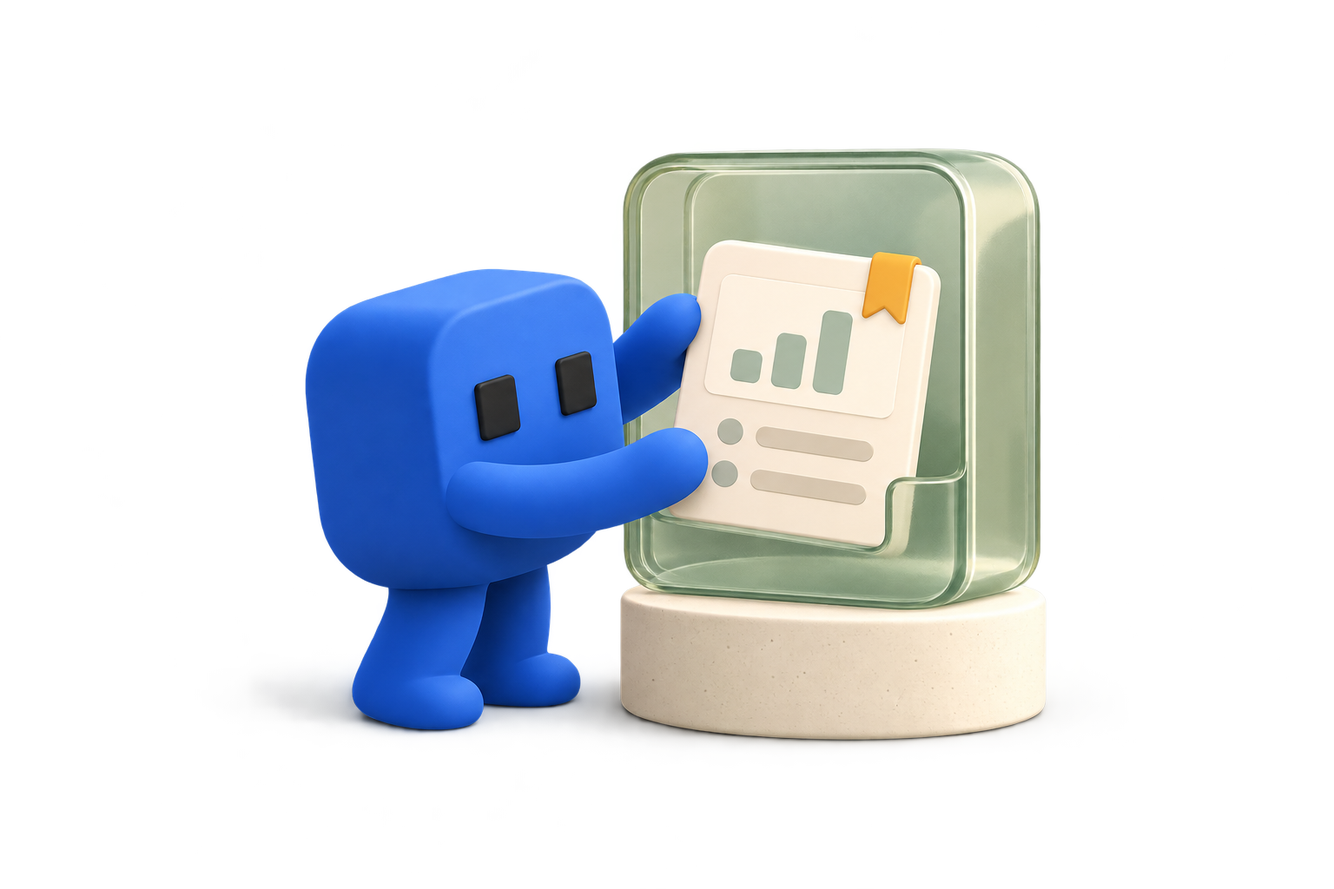
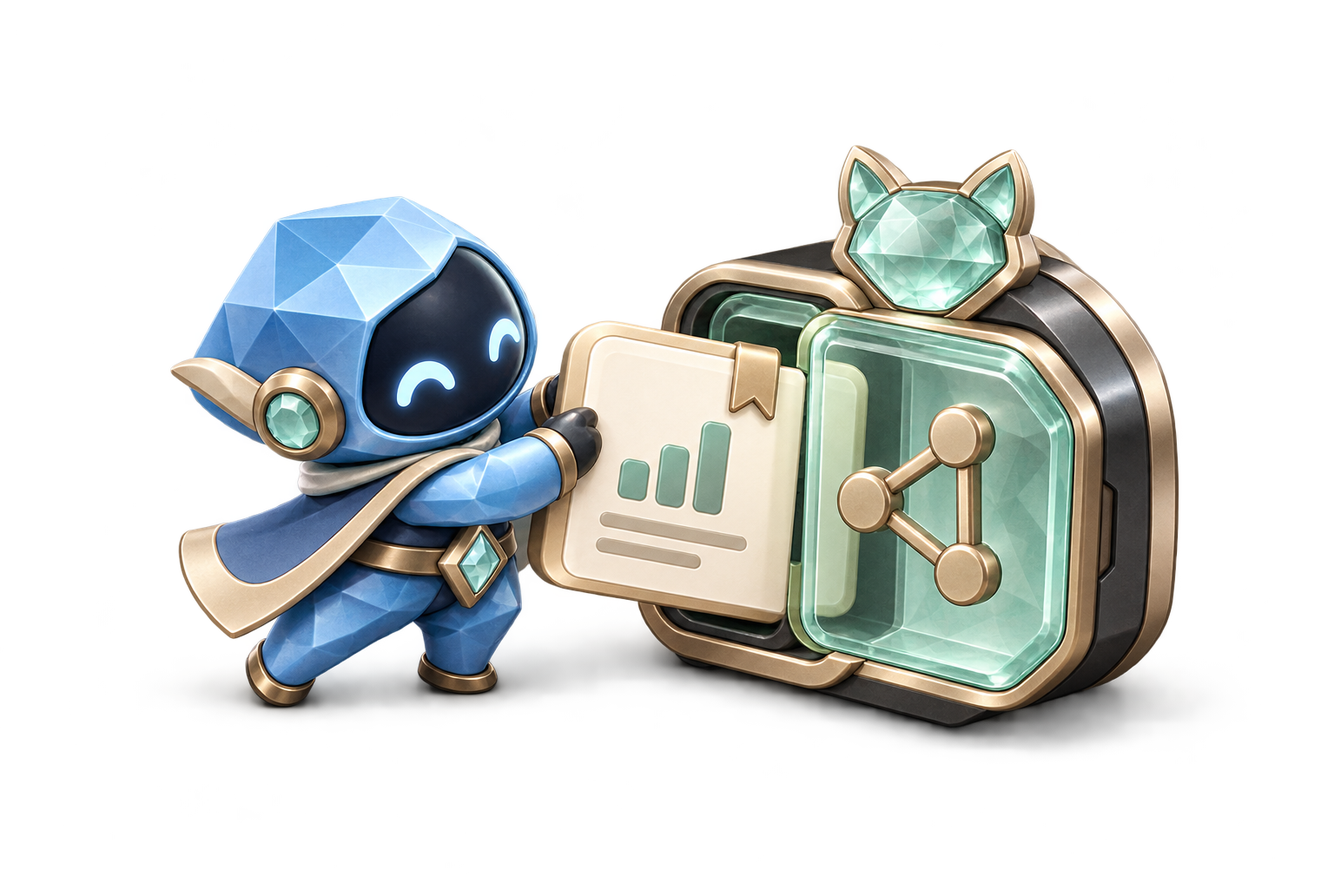
feat(settings): complete brand scenes and group symbols
## Context
- Principle: Preserve original facts and usable capabilities through their owning modules.
- Why: The owning change must complete brand scenes and group symbols.

## Key Deltas
- Settings structure: prior behavior -> complete brand scenes and group symbols; why: close the original consumer path. Key refs: apps/desktop/src/renderer/src/assets/mote-origin/grown-team.png:1

diff --git a/packages/client-ui/src/theme/icon-authored.ts b/packages/client-ui/src/theme/icon-authored.ts
@@ -26,6 +26,58 @@ export const MOTE_COMPANION_PARTS = {
 /** AgentMux drawings on the original 24-unit grid. Keep the theme pen, complete
  * still silhouette and negative space at 12–14px. Only declared parts can move. */
 export const AUTHORED_ICON_DEFINITIONS = {
+  "settings-preferences": {
+    shapes: [["path", {"d": "M3 7h18 M3 17h18"}], ["path", {"d": "M8 4v6 M16 14v6"}]],
+    design: { rest: "Quiet controls with two distinct adjustment points.", motion: { kind: "still", animation: "none", description: "Complete static identity; no inferred activity.", trigger: "The original object or settings group is displayed; this drawing grants no permission and reports no operation result." } }
+  },
+  "settings-agents": {
+    shapes: [["path", {"d": "M5 4h14a2 2 0 0 1 2 2v12a2 2 0 0 1-2 2H5a2 2 0 0 1-2-2V6a2 2 0 0 1 2-2Z"}], ["path", {"d": "m7 9 3 3-3 3 M13 15h4"}]],
+    design: { rest: "Executable command workbench, distinct from a Mote personality.", motion: { kind: "still", animation: "none", description: "Complete static identity; no inferred activity.", trigger: "The original object or settings group is displayed; this drawing grants no permission and reports no operation result." } }
+  },
+  "settings-work": {
+    shapes: [["path", {"d": "M3 4h8v7H3Z M15 4h6v7h-6Z M3 15h6v6H3Z M13 15h8v6h-8Z"}]],
+    design: { rest: "Several coordinated work surfaces rather than one Space window.", motion: { kind: "still", animation: "none", description: "Complete static identity; no inferred activity.", trigger: "The original object or settings group is displayed; this drawing grants no permission and reports no operation result." } }
+  },
+  "settings-know": {
+    shapes: [["path", {"d": "M3 8h6v8H3Z M15 3h6v6h-6Z M15 15h6v6h-6Z"}], ["path", {"d": "M9 12h3 M12 6v12 M12 6h3 M12 18h3"}]],
+    design: { rest: "Related knowledge units join into one organized collection.", motion: { kind: "still", animation: "none", description: "Complete static identity; no inferred activity.", trigger: "The original object or settings group is displayed; this drawing grants no permission and reports no operation result." } }
+  },
+  "settings-browser-use": {
+    shapes: [["path", {"d": "M5 3h14a2 2 0 0 1 2 2v6 M3 18V5a2 2 0 0 1 2-2 M3 8h18 M3 18a2 2 0 0 0 2 2h6"}], ["path", {"d": "m13 11 8 4-4 1-1 5Z"}]],
+    design: { rest: "A browser with a deliberate page interaction cursor.", motion: { kind: "still", animation: "none", description: "Complete static identity; no inferred activity.", trigger: "The original object or settings group is displayed; this drawing grants no permission and reports no operation result." } }
+  },
+  "settings-message-tool": {
+    shapes: [["path", {"d": "M5 4h13a2 2 0 0 1 2 2v5 M3 12V6a2 2 0 0 1 2-2 M7 9h5"}], ["path", {"d": "M4 16h16 M16 12l4 4-4 4"}]],
+    design: { rest: "An authored input followed by intentional outgoing communication.", motion: { kind: "still", animation: "none", description: "Complete static identity; no inferred activity.", trigger: "The original object or settings group is displayed; this drawing grants no permission and reports no operation result." } }
+  },
+  "settings-remote": {
+    shapes: [["path", {"d": "M2 4h8v8H2Z M14 12h8v8h-8Z"}], ["path", {"d": "M6 12v5h8 M10 8h8v4"}]],
+    design: { rest: "Two machines connected across their original environments.", motion: { kind: "still", animation: "none", description: "Complete static identity; no inferred activity.", trigger: "The original object or settings group is displayed; this drawing grants no permission and reports no operation result." } }
+  },
+  "settings-channels": {
+    shapes: [["path", {"d": "M3 4h7v6H6l-3 2Z M14 14h7v6h-4l-3 2Z"}], ["path", {"d": "M10 7h7v7 M3 17h6 M6 14v6"}]],
+    design: { rest: "Distinct conversation channels connected through one route.", motion: { kind: "still", animation: "none", description: "Complete static identity; no inferred activity.", trigger: "The original object or settings group is displayed; this drawing grants no permission and reports no operation result." } }
+  },
+  "settings-mods": {
+    shapes: [["path", {"d": "M3 3h7v7H3Z M14 3h7v7h-7Z M3 14h7v7H3Z"}], ["path", {"d": "M17.5 13v9 M13 17.5h9"}]],
+    design: { rest: "A modular workspace with a deliberate extension point.", motion: { kind: "still", animation: "none", description: "Complete static identity; no inferred activity.", trigger: "The original object or settings group is displayed; this drawing grants no permission and reports no operation result." } }
+  },
+  "promotion-rise": {
+    shapes: [["path", {"d": "M3 20h5v-6h6V8h6V3"}], ["path", {"d": "M15 3h5v5"}]],
+    design: { rest: "Accumulated work grows through connected steps; a distinct promotion destination.", motion: { kind: "still", animation: "none", description: "Complete static identity; no inferred activity.", trigger: "The original object or settings group is displayed; this drawing grants no permission and reports no operation result." } }
+  },
+  "agent-message-relay": {
+    shapes: [["path", {"d": "M3 4h9v7H6l-3 2Z M12 13h9v7h-6l-3 2Z"}], ["path", {"d": "M15 5h5v5 M9 19H4v-5"}]],
+    design: { rest: "Two original message endpoints exchange content without implying delivery success.", motion: { kind: "still", animation: "none", description: "Complete static identity; no inferred activity.", trigger: "The original object or settings group is displayed; this drawing grants no permission and reports no operation result." } }
+  },
+  "automation-route": {
+    shapes: [["path", {"d": "M6 4h12v5 M18 15v5H6v-5"}], ["path", {"d": "M3 9h6v6H3Z M15 9h6v6h-6Z"}]],
+    design: { rest: "A repeatable route connects explicit work stages without a live animation.", motion: { kind: "still", animation: "none", description: "Complete static identity; no inferred activity.", trigger: "The original object or settings group is displayed; this drawing grants no permission and reports no operation result." } }
+  },
+  "library-tools": {
+    shapes: [["path", {"d": "M3 8h18v12H3Z M8 8V5h8v3 M3 13h18"}], ["path", {"d": "M10 12v3h4v-3"}]],
+    design: { rest: "A carried toolkit with a distinct handle and clasp; separate from the Mods extension group.", motion: { kind: "still", animation: "none", description: "Complete static identity; no inferred activity.", trigger: "The original object or settings group is displayed; this drawing grants no permission and reports no operation result." } }
+  },
   "space-workchamber": {
     shapes: [["rect", { "x": "2.5", "y": "4", "width": "19", "height": "16", "rx": "2" }], ["path", { "d": "M9.5 4v16", "data-semantic-icon-part": "selection-pane" }]],
     design: {
@@ -601,7 +653,7 @@ export const AUTHORED_ICON_DEFINITIONS = {
     }
   },
   "skill-guide": {
-    shapes: [["path",{"d":"M5 3h14v18H5Z M8 7h8 M8 11h8 M8 16l2 2 5-4"}]],
+    shapes: [["path",{"d":"M5 3h10l4 4v14H5Z M15 3v5h4 M8 7h8 M8 11h8 M8 16l2 2 5-4"}]],
     design: {
       rest: "指南页、行文与检查记号，表达指导材料",
       motion: { kind: "still", animation: "none", description: "当前消费表达对象/记录或入口，未提供持续活动事实；实际面板/选中/布局变化已表达动作结果，保持图标静止减少重复反馈。", trigger: "沿现有对象身份、分类、导航、记录或工具入口；hover/focus沿宿主短反馈" }
@@ -650,11 +702,8 @@ export const AUTHORED_ICON_DEFINITIONS = {
     }
   },
   "topic-card": {
-    shapes: [["path",{"d":"M4 4h16v12H9l-5 5Z M8 8h8 M8 12h5"}]],
-    design: {
-      rest: "对话卡片与正文线，有对象轮廓",
-      motion: { kind: "still", animation: "none", description: "当前消费表达对象/记录或入口，未提供持续活动事实；实际面板/选中/布局变化已表达动作结果，保持图标静止减少重复反馈。", trigger: "沿现有对象身份、分类、导航、记录或工具入口；hover/focus沿宿主短反馈" }
-    }
+    shapes: [["path", {"d": "M5 3h14a2 2 0 0 1 2 2v14a2 2 0 0 1-2 2H5a2 2 0 0 1-2-2V5a2 2 0 0 1 2-2Z"}], ["path", {"d": "M7 7h4 M7 17h10"}], ["path", {"d": "M14.5 11a2.5 2.5 0 1 1-5 0 2.5 2.5 0 0 1 5 0Z"}]],
+    design: { rest: "An indexed topic core and its accumulated notes.", motion: { kind: "still", animation: "none", description: "Complete static identity; no inferred activity.", trigger: "The original object or settings group is displayed; this drawing grants no permission and reports no operation result." } }
   },
   "tab-item": {
     shapes: [["path",{"d":"M3 8h18v13H3Z M4 8V3h8v5 M15 5h5v3"}]],
@@ -699,11 +748,8 @@ export const AUTHORED_ICON_DEFINITIONS = {
     }
   },
   "prompt-sheet": {
-    shapes: [["path",{"d":"M5 3h9l5 5v13H5Z M14 3v5h5"}],["path",{"d":"M8 12h4 M15 11v7 M8 17h3"}]],
-    design: {
-      rest: "折角纸页与局部输入竖线",
-      motion: { kind: "still", animation: "none", description: "当前消费表达对象/记录或入口，未提供持续活动事实；实际面板/选中/布局变化已表达动作结果，保持图标静止减少重复反馈。", trigger: "沿现有对象身份、分类、导航、记录或工具入口；hover/focus沿宿主短反馈" }
-    }
+    shapes: [["path", {"d": "M5 3h10l4 4v14H5Z M15 3v5h4"}], ["path", {"d": "M8 12h8 M8 16h5"}]],
+    design: { rest: "A reusable instruction page with authored lines, distinct from an executing terminal.", motion: { kind: "still", animation: "none", description: "Complete static identity; no inferred activity.", trigger: "The original object or settings group is displayed; this drawing grants no permission and reports no operation result." } }
   },
   "session-resume": {
     shapes: [["path",{"d":"M3 8V6a2 2 0 0 1 2-2h14a2 2 0 0 1 2 2v12a2 2 0 0 1-2 2H5a2 2 0 0 1-2-2v-2"}],["path",{"d":"M2 12h12 M10 8l4 4-4 4","data-semantic-icon-part":"feedback-forward","pathLength":"1"}]],
@@ -818,7 +864,7 @@ export const AUTHORED_ICON_DEFINITIONS = {
     }
   },
   "suggestion-snooze": {
-    shapes: [["path",{"d":"M5 3h14v18H5Z M8 9h8l-8 7h8"}]],
+    shapes: [["path",{"d":"M5 3h10l4 4v14H5Z M15 3v5h4 M8 9h8l-8 7h8"}]],
     design: {
       rest: "纸页内Z式休眠符号；非停止Agent或静音通知",
       motion: { kind: "still", animation: "none", description: "图形经实际CSS mask投影，无独立内部部位；真实内容/折叠/缩放变化已经给出结果，静止图标更清楚。", trigger: "原Monaco/Excalidraw控件值与动作；不新增内部动画renderer" }

diff --git a/apps/desktop/src/renderer/src/components/settings/settings-catalog.ts b/apps/desktop/src/renderer/src/components/settings/settings-catalog.ts
@@ -1,5 +1,5 @@
 import type { ComponentType } from 'react'
-import type { IconAnimation } from '@agentmux/client-ui/icons'
+import type { IconAnimation, SemanticIconId } from '@agentmux/client-ui/icons'
 import type { AppConfig } from '../../../../shared/contracts'
 import type { SettingsNavigationRequest } from '../SettingsNavigation'
 import type { SettingsPageId } from './settings-modules'
@@ -9,17 +9,17 @@ export type ChannelEntry = { section: SettingsPageId; adapterId: string; title: 
 export type ChannelPresentation = { section: SettingsPageId; title: string; icon: ComponentType<{ size?: number | undefined }> }
 
 export const SETTINGS_GROUPS = [
-  { id: 'preferences', title: 'Preferences', description: 'Your profile and everyday defaults.' },
-  { id: 'agents', title: 'Agents', description: 'Agent CLIs and session recovery.' },
-  { id: 'mote', title: 'Mote', description: 'Your collaborators and how they grow.' },
-  { id: 'work', title: 'Work', description: 'Organize work, focus attention and pursue goals.' },
-  { id: 'know', title: 'Know', description: 'Develop topics, explore sources and keep notes.' },
-  { id: 'browser-use', title: 'Browser use', description: 'Browsing and Agent interaction.' },
-  { id: 'message-tool', title: 'Message Tool', description: 'Input, collaboration and reusable instructions.' },
-  { id: 'remote', title: 'Remote', description: 'Hosts, remote execution, and device access.' },
-  { id: 'conversation-channels', title: 'Conversation Channels', description: 'Conversations in the app and beyond.' },
-  { id: 'toolkit', title: 'Mods', description: 'Tools that extend your workspace.' }
-] as const
+  { id: 'preferences', icon: 'object.settings-preferences', title: 'Preferences', description: 'Your profile and everyday defaults.' },
+  { id: 'agents', icon: 'object.settings-agents', title: 'Agents', description: 'Agent CLIs and session recovery.' },
+  { id: 'mote', icon: 'object.mote', title: 'Mote', description: 'Your collaborators and how they grow.' },
+  { id: 'work', icon: 'object.settings-work', title: 'Work', description: 'Organize work, focus attention and pursue goals.' },
+  { id: 'know', icon: 'object.settings-know', title: 'Know', description: 'Develop topics, explore sources and keep notes.' },
+  { id: 'browser-use', icon: 'object.settings-browser-use', title: 'Browser use', description: 'Browsing and Agent interaction.' },
+  { id: 'message-tool', icon: 'object.settings-message-tool', title: 'Message Tool', description: 'Input, collaboration and reusable instructions.' },
+  { id: 'remote', icon: 'object.settings-remote', title: 'Remote', description: 'Hosts, remote execution, and device access.' },
+  { id: 'conversation-channels', icon: 'object.settings-channels', title: 'Conversation Channels', description: 'Conversations in the app and beyond.' },
+  { id: 'toolkit', icon: 'object.settings-mods', title: 'Mods', description: 'Tools that extend your workspace.' }
+] as const satisfies readonly { id: string; icon: SemanticIconId; title: string; description: string }[]
 
 export type SettingsPaneProps = {
   config: AppConfig

diff --git a/packages/client-ui/src/theme/icon-catalog.ts b/packages/client-ui/src/theme/icon-catalog.ts
@@ -3,12 +3,23 @@ export { ICON_GLYPHS, ICON_GLYPH_IDS, AUTHORED_ICON_GLYPH_IDS, type IconGlyphId 
 
 /** IDs describe product meaning. Library glyph IDs are only the default drawing choice. */
 export const SEMANTIC_ICON_CATALOG = {
+  'object.settings-preferences': { label: 'Preferences group', glyph: 'settings-preferences' },
+  'object.settings-agents': { label: 'Agents group', glyph: 'settings-agents' },
+  'object.settings-work': { label: 'Work group', glyph: 'settings-work' },
+  'object.settings-know': { label: 'Know group', glyph: 'settings-know' },
+  'object.settings-browser-use': { label: 'Browser use group', glyph: 'settings-browser-use' },
+  'object.settings-message-tool': { label: 'Message Tool group', glyph: 'settings-message-tool' },
+  'object.settings-remote': { label: 'Remote group', glyph: 'settings-remote' },
+  'object.settings-channels': { label: 'Conversation Channels group', glyph: 'settings-channels' },
+  'object.settings-mods': { label: 'Mods group', glyph: 'settings-mods' },
+  'object.promotion': { label: 'Topic promotion', glyph: 'promotion-rise' },
+  'object.tool-library': { label: 'Toolkit Library', glyph: 'library-tools' },
   'action.fork-conversation': { label: 'Fork current conversation', glyph: 'git-fork' },
   'object.relationships': { label: 'Note relationships', glyph: 'topology-nodes' },
   'object.subagent': { label: 'Native Subagent report', glyph: 'subagent-report' },
   'object.collaboration': { label: 'Recorded Agent collaboration', glyph: 'message-history' },
   'object.agent-creation': { label: 'Agent creation relation', glyph: 'plus' },
-  'object.automation': { label: 'Automation', glyph: 'zap' },
+  'object.automation': { label: 'Automation', glyph: 'automation-route' },
   'action.move-to-draft': { label: 'Move queued message to draft', glyph: 'draft-return' },
   'navigation.space': { label: 'Space workbench', glyph: 'space-workchamber' },
   'navigation.focus': { label: 'Focus workface', glyph: 'focus-workframe' },
@@ -18,7 +29,7 @@ export const SEMANTIC_ICON_CATALOG = {
   'object.session-recovery': { label: 'Session recovery', glyph: 'session-resume' },
   'object.capsule': { label: 'Capsule', glyph: 'capsule-page' },
   'object.user-input': { label: 'User Input', glyph: 'user-input-field' },
-  'object.agent-messaging': { label: 'Agent messaging', glyph: 'git-compare-arrows' },
+  'object.agent-messaging': { label: 'Agent messaging', glyph: 'agent-message-relay' },
   'object.amux-protocols': { label: 'amux Protocols', glyph: 'protocol-frame' },
   'object.remote-execution': { label: 'Remote execution', glyph: 'execution-split' },
   'conversation.history-window': { label: 'Conversation history window', glyph: 'clock-3' },

diff --git a/apps/desktop/src/renderer/src/components/SettingsPanel.tsx b/apps/desktop/src/renderer/src/components/SettingsPanel.tsx
@@ -1,6 +1,6 @@
 import { TextInput } from '@agentmux/client-ui/input'
 import * as DropdownMenu from './HoverDropdownMenu'
-import { semanticIconComponent } from '@agentmux/client-ui/icons'
+import { SemanticIcon, semanticIconComponent } from '@agentmux/client-ui/icons'
 import { Fragment, memo, useEffect, useLayoutEffect, useMemo, useRef, useState } from 'react'
 import { BrandIcon } from './BrandIcon'
 import type { SettingsNavigationRequest } from './SettingsNavigation'
@@ -14,6 +14,7 @@ import { SettingsSidebarNavigation } from './settings/SettingsSidebarNavigation'
 import { SETTINGS_GROUPS, type SettingsModule } from './settings/settings-catalog'
 import { settingsCatalog, settingsModules, visibleSettingsSections, settingsNavGroups, type SettingsPageId, type SettingsSectionId } from './settings/settings-modules'
 import '../styles/settings-search.css'
+import '../styles/settings-groups.css'
 
 const ThemeActionSearchIcon = semanticIconComponent('action.search')
 const ThemeActionClearIcon = semanticIconComponent('action.clear')
@@ -196,7 +197,7 @@ function SettingsPanelView({ onClose, visible = true, initialSection = 'overview
               <DropdownMenu.RadioGroup value={showResults ? '' : active} onValueChange={(value) => chooseSection(value as SettingsPageId)}>
                 {!query.trim() ? <DropdownMenu.RadioItem value="overview" className="settings-section-menu__item" data-settings-target="overview"><span><DropdownMenu.ItemIndicator><ThemeStatusSelectedIcon size={13} /></DropdownMenu.ItemIndicator></span><OverviewIcon size={15} aria-hidden="true" />Overview</DropdownMenu.RadioItem> : null}
                 {navGroups.map((group) => <Fragment key={group.id}>
-                  <DropdownMenu.Label className="settings-section-menu__label">{group.title}</DropdownMenu.Label>
+                  <DropdownMenu.Label className="settings-section-menu__label"><span className="settings-group-heading"><SemanticIcon name={group.icon} size={12} aria-hidden="true" />{group.title}</span></DropdownMenu.Label>
                   {group.items.map((item) => {
                     const Icon = item.icon
                     return <DropdownMenu.RadioItem key={item.id} value={item.id} className="settings-section-menu__item" data-settings-target={item.id}>

diff --git a/apps/desktop/src/renderer/src/components/settings/MoteOriginStory.tsx b/apps/desktop/src/renderer/src/components/settings/MoteOriginStory.tsx
@@ -11,7 +11,7 @@ const chapters = [
     description: '已经知道需要什么？从 PMO 这样的专家画像建立 Mote，让其中的 Agent 分工，把事情一起做好。',
     continuity: '团队有共同的名字与风格，成员各自承担工作。',
     image: roleTeam,
-    alt: '一个带有 Mote 人格标识的工作室，内部蓝色、琥珀色和紫色的三位 Agent 分别使用电脑、整理任务和记录笔记。',
+    alt: '蓝色、琥珀色和紫色的三位 Agent 把图表、书写和观察三种专长拼入共同的团队画像。',
   },
   {
     label: '从 Topic 开始', path: '从事情成长 · 开始', organization: 'Topic · 一个工作方向',
@@ -19,15 +19,15 @@ const chapters = [
     description: '方向还新，就先建一个 Topic。让其中的 Agent 从具体任务开始，在一次次合作中积累经验、形成分工。',
     continuity: '先有一起做的事，再发现值得长期发展的能力。',
     image: topicWork,
-    alt: 'Topic 的开放工作区里，蓝色、琥珀色和紫色的三位 Agent 处理日常任务，留下图表、任务卡和笔记。',
+    alt: '三位 Agent 围绕同一个 Topic 工作台，汇集资料、图表和笔记，形成共同的上下文。',
   },
   {
-    label: '晋升为 Mote', path: '从事情成长 · 晋升为伙伴', organization: 'Mote · 长期伙伴',
+    label: 'Promotion', path: '从事情成长 · Promotion', organization: 'Mote · 长期伙伴',
     title: '让重要的方向，成为长期伙伴。',
     description: '当一个 Topic 足够重要、被频繁依赖，就让它晋升为 Mote，建立团队人格。原来的 Agent 与积累一起延续。',
     continuity: '成员继续成长：深耕专业，也可以逐渐承担协调。',
     image: grownTeam,
-    alt: '上一幕相同的三位 Agent、图表、任务卡和笔记仍在，工作区建立了 Mote 的名字与人格标识，成员继续专业工作与协调。',
+    alt: '三位原 Agent 带着自己的专长与资料，站在连续的团队平台上；积累的 Topic 核心展开为 Mote 人格。',
   },
 ] as const
 

diff --git a/apps/desktop/src/renderer/src/components/settings/settings-concept-summary.css b/apps/desktop/src/renderer/src/components/settings/settings-concept-summary.css
@@ -1,0 +1,18 @@
+.settings-concept-summary { min-width: 0; margin-bottom: var(--sp-4); padding: var(--sp-4) 0; border-bottom: 1px solid var(--line-soft); }
+.settings-concept-summary__heading { display: flex; align-items: center; gap: var(--sp-3); }
+.settings-concept-summary__symbol { display: grid; place-items: center; flex: none; width: 40px; height: 40px; border: 1px solid color-mix(in srgb, var(--green) 22%, var(--line-soft)); border-radius: 12px; color: var(--green); background: color-mix(in srgb, var(--green) 5%, var(--surface-1)); }
+.settings-concept-summary__heading > div:not(.settings-concept-summary__action) { min-width: 0; flex: 1; }
+.settings-concept-summary h3 { margin: 0 0 4px; font-size: var(--fs-body); line-height: 1.4; font-weight: 600; color: var(--text); }
+.settings-concept-summary p { margin: 0; max-width: 66ch; color: var(--text-2); font-size: var(--fs-meta); line-height: 1.55; }
+.settings-concept-summary__action { flex: none; }
+.settings-concept-summary__steps { list-style: none; display: grid; grid-auto-columns: minmax(0, 1fr); grid-auto-flow: column; gap: var(--sp-4); margin: var(--sp-4) 0 0 52px; padding: 0; }
+.settings-concept-summary__steps li { display: flex; gap: var(--sp-2); min-width: 0; }
+.settings-concept-summary__steps li > span { display: grid; place-items: center; flex: none; width: 19px; height: 19px; margin-top: 1px; border: 1px solid var(--line-soft); border-radius: 50%; color: var(--text-3); font-size: var(--fs-micro); }
+.settings-concept-summary__steps strong, .settings-concept-summary__steps small { display: block; font-size: var(--fs-meta); line-height: 1.5; }
+.settings-concept-summary__steps strong { color: var(--text-2); font-weight: 500; }
+.settings-concept-summary__steps small { color: var(--text-3); }
+@container (max-width: 520px) {
+  .settings-concept-summary__heading { flex-wrap: wrap; }
+  .settings-concept-summary__action { margin-left: 52px; }
+  .settings-concept-summary__steps { grid-auto-flow: row; grid-auto-columns: auto; gap: var(--sp-3); }
+}

diff --git a/apps/desktop/src/renderer/src/components/settings/SettingsSidebarNavigation.tsx b/apps/desktop/src/renderer/src/components/settings/SettingsSidebarNavigation.tsx
@@ -1,4 +1,4 @@
-import { semanticIconComponent } from '@agentmux/client-ui/icons'
+import { SemanticIcon, semanticIconComponent } from '@agentmux/client-ui/icons'
 import { useLayoutEffect, useRef, useState } from 'react'
 import { LiquidSelectionSurface } from '../LiquidSelectionSurface'
 import type { SettingsNavGroup, SettingsModule } from './settings-catalog'
@@ -37,9 +37,9 @@ export function SettingsSidebarNavigation({ groups, selected, activeGroup, navig
     {groups.map(group => {
       const open = searching || expanded.has(group.id)
       return <div key={group.id} className="settings-nav-section" data-settings-group={group.id}>
-        {searching ? <p className="settings-nav-group">{group.title}</p> : <button type="button" className="settings-nav-group" data-settings-group-toggle={group.id} aria-expanded={open} aria-controls={`settings-nav-${group.id}`} title={group.description}
+        {searching ? <p className="settings-nav-group"><span className="settings-group-heading"><SemanticIcon name={group.icon} size={12} aria-hidden="true" />{group.title}</span></p> : <button type="button" className="settings-nav-group" data-settings-group-toggle={group.id} aria-expanded={open} aria-controls={`settings-nav-${group.id}`} title={group.description}
           onClick={() => setExpanded(current => { const next = new Set(current); if (next.has(group.id)) next.delete(group.id); else next.add(group.id); return next })}>
-          <span>{group.title}</span><DisclosureIcon size={12} aria-hidden="true" />
+          <span className="settings-group-heading"><SemanticIcon name={group.icon} size={12} aria-hidden="true" />{group.title}</span><DisclosureIcon size={12} aria-hidden="true" />
         </button>}
         <div id={`settings-nav-${group.id}`} className="settings-nav-items" hidden={!open}>
           {group.items.map(item => {

diff --git a/apps/desktop/src/renderer/src/styles/mote-origin-story.css b/apps/desktop/src/renderer/src/styles/mote-origin-story.css
@@ -15,9 +15,9 @@
 .mote-origin__copy h4 { margin: var(--sp-3) 0; font-size: var(--fs-display); line-height: 1.45; font-weight: 600; color: var(--text); text-wrap: balance; }
 .mote-origin__copy p { margin: 0; font-size: var(--fs-body); line-height: 1.8; color: var(--text-2); }
 .mote-origin__copy .mote-origin__continuity { margin-top: var(--sp-4); font-size: var(--fs-meta); color: var(--text-3); }
-.mote-origin__figure { margin: 0; min-width: 0; display: flex; flex-direction: column; justify-content: center; background: #f4f2e9; }
+.mote-origin__figure { margin: 0; min-width: 0; display: flex; flex-direction: column; justify-content: center; background: radial-gradient(ellipse at 50% 45%, color-mix(in srgb, var(--green) 6%, transparent), transparent 72%), var(--surface-1); }
 .mote-origin__figure img { display: block; width: 100%; height: auto; aspect-ratio: 3 / 2; object-fit: contain; }
-.mote-origin__figure figcaption { display: flex; flex-direction: column; gap: var(--sp-1); padding: 0 var(--sp-4) var(--sp-4); color: #425d53; text-align: center; font-size: var(--fs-meta); line-height: 1.6; }
+.mote-origin__figure figcaption { display: flex; flex-direction: column; gap: var(--sp-1); padding: 0 var(--sp-4) var(--sp-4); color: var(--text-2); text-align: center; font-size: var(--fs-meta); line-height: 1.6; }
 .mote-origin__figure figcaption strong { font-weight: 600; }
 .mote-origin__note { margin: var(--sp-2) 0 0; font-size: var(--fs-meta); color: var(--text-3); line-height: 1.6; }
 @container (max-width: 580px) {

diff --git a/apps/desktop/src/renderer/src/components/settings/TopicDirectorySettingsPane.tsx b/apps/desktop/src/renderer/src/components/settings/TopicDirectorySettingsPane.tsx
@@ -3,8 +3,8 @@ import { SCRATCH_WORKSPACE_ID } from '../../../../shared/scratch-topics'
 import { openTopicDirectory } from '../../lib/topic-directory-navigation'
 import { useAppStore } from '../../store'
 import type { SettingsPaneProps } from './settings-catalog'
-import topicArt from '../../assets/mote-origin/topic-work.png'
-import promotionArt from '../../assets/mote-origin/grown-team.png'
+import topicArt from '../../assets/settings/topic-atlas.png'
+import promotionArt from '../../assets/settings/promotion-identity.png'
 import './settings-concept-intro.css'
 import '../../styles/settings-workflows.css'
 
@@ -14,7 +14,7 @@ const OpenIcon = semanticIconComponent('action.open-external')
 export function TopicDirectorySettingsPane({ config, onClose, promotion = false }: Pick<SettingsPaneProps, 'config' | 'onClose'> & { promotion?: boolean }) {
   const workspace = config.workspaces.find(item => item.id === SCRATCH_WORKSPACE_ID)
   return <div className="settings-pane-stack">
-    <section className="settings-concept-intro" aria-label={promotion ? 'Topic 晋升为 Mote' : 'Topic'}>
+    <section className="settings-concept-intro" aria-label={promotion ? 'Promotion' : 'Topic'}>
       <div className="settings-concept-intro__copy">
         <h3 className="settings-concept-intro__title">{promotion ? '让重要的方向，成为长期伙伴。' : '围绕一个主题，积累知识。'}</h3>
         <p className="settings-concept-intro__description">{promotion

diff --git a/apps/desktop/src/renderer/src/components/settings/SettingsConceptSummary.tsx b/apps/desktop/src/renderer/src/components/settings/SettingsConceptSummary.tsx
@@ -1,0 +1,24 @@
+import { SemanticIcon, type SemanticIconId } from '@agentmux/client-ui/icons'
+import { useId, type ReactNode } from 'react'
+import './settings-concept-summary.css'
+
+/** Read-only product meaning. The original pane owns every action and saved fact. */
+export function SettingsConceptSummary({ icon, title, description, steps, action }: {
+  icon: SemanticIconId
+  title: string
+  description: string
+  steps?: readonly { label: string; detail: string }[]
+  action?: ReactNode
+}) {
+  const heading = useId()
+  return <section className="settings-concept-summary" aria-labelledby={heading}>
+    <div className="settings-concept-summary__heading">
+      <span className="settings-concept-summary__symbol"><SemanticIcon name={icon} size={22} aria-hidden="true" /></span>
+      <div><h3 id={heading}>{title}</h3><p>{description}</p></div>
+      {action ? <div className="settings-concept-summary__action">{action}</div> : null}
+    </div>
+    {steps?.length ? <ol className="settings-concept-summary__steps">{steps.map((step, index) => <li key={step.label}>
+      <span aria-hidden="true">{index + 1}</span><div><strong>{step.label}</strong><small>{step.detail}</small></div>
+    </li>)}</ol> : null}
+  </section>
+}

diff --git a/apps/desktop/src/renderer/src/components/settings/SettingsOverviewPane.tsx b/apps/desktop/src/renderer/src/components/settings/SettingsOverviewPane.tsx
@@ -1,4 +1,4 @@
-import { semanticIconComponent } from '@agentmux/client-ui/icons'
+import { SemanticIcon, semanticIconComponent } from '@agentmux/client-ui/icons'
 import { useEffect, useState } from 'react'
 import type { AppConfig } from '../../../../shared/contracts'
 import type { SettingsModule, SettingsNavGroup } from './settings-catalog'
@@ -47,7 +47,7 @@ export function SettingsOverviewPane<Module extends SettingsModule>({ config, gr
       <div className="settings-overview__groups" data-settings-directory>
           {groups.map((group) => <section key={group.id} data-settings-group={group.id} className="settings-overview__group" aria-labelledby={`settings-overview-${group.id}`}>
             <header>
-              <h3 id={`settings-overview-${group.id}`}>{group.title}</h3><p>{group.description}</p>
+              <h3 id={`settings-overview-${group.id}`} className="settings-group-heading"><SemanticIcon name={group.icon} size={16} aria-hidden="true" />{group.title}</h3><p>{group.description}</p>
             </header>
             <div className="settings-overview__entries">
               {group.items.map((item) => {

diff --git a/apps/desktop/src/renderer/src/components/settings/modules/topic.tsx b/apps/desktop/src/renderer/src/components/settings/modules/topic.tsx
@@ -3,7 +3,7 @@ import { TopicDirectorySettingsPane } from '../TopicDirectorySettingsPane'
 import type { SettingsModule } from '../settings-catalog'
 
 const TopicIcon = semanticIconComponent('object.topic')
-const PromotionIcon = semanticIconComponent('object.mote')
+const PromotionIcon = semanticIconComponent('object.promotion')
 
 export const topicSettingsModule = {
   id: 'topic', group: 'know', title: 'Topic', icon: TopicIcon,
@@ -14,7 +14,7 @@ export const topicSettingsModule = {
 } as const satisfies SettingsModule
 
 export const motePromotionSettingsModule = {
-  id: 'mote-promotion', group: 'mote', title: '晋升', icon: PromotionIcon,
+  id: 'mote-promotion', group: 'mote', title: 'Promotion', icon: PromotionIcon,
   description: 'Grow an existing Topic into a Mote.',
   keywords: 'mote promotion promote topic growth 晋升 伙伴 成长',
   savedSummary: () => 'Topic → Mote',
